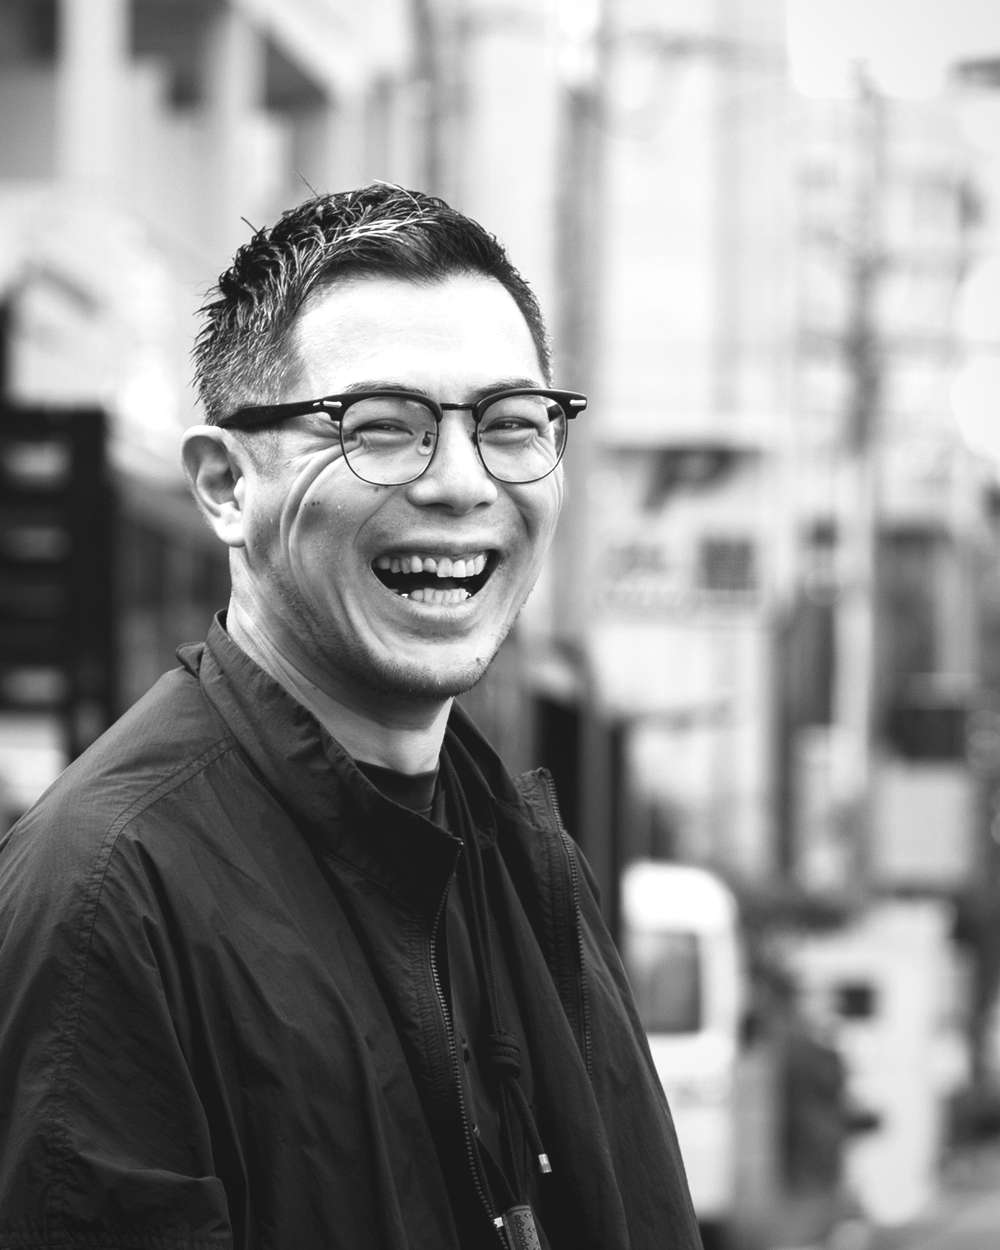
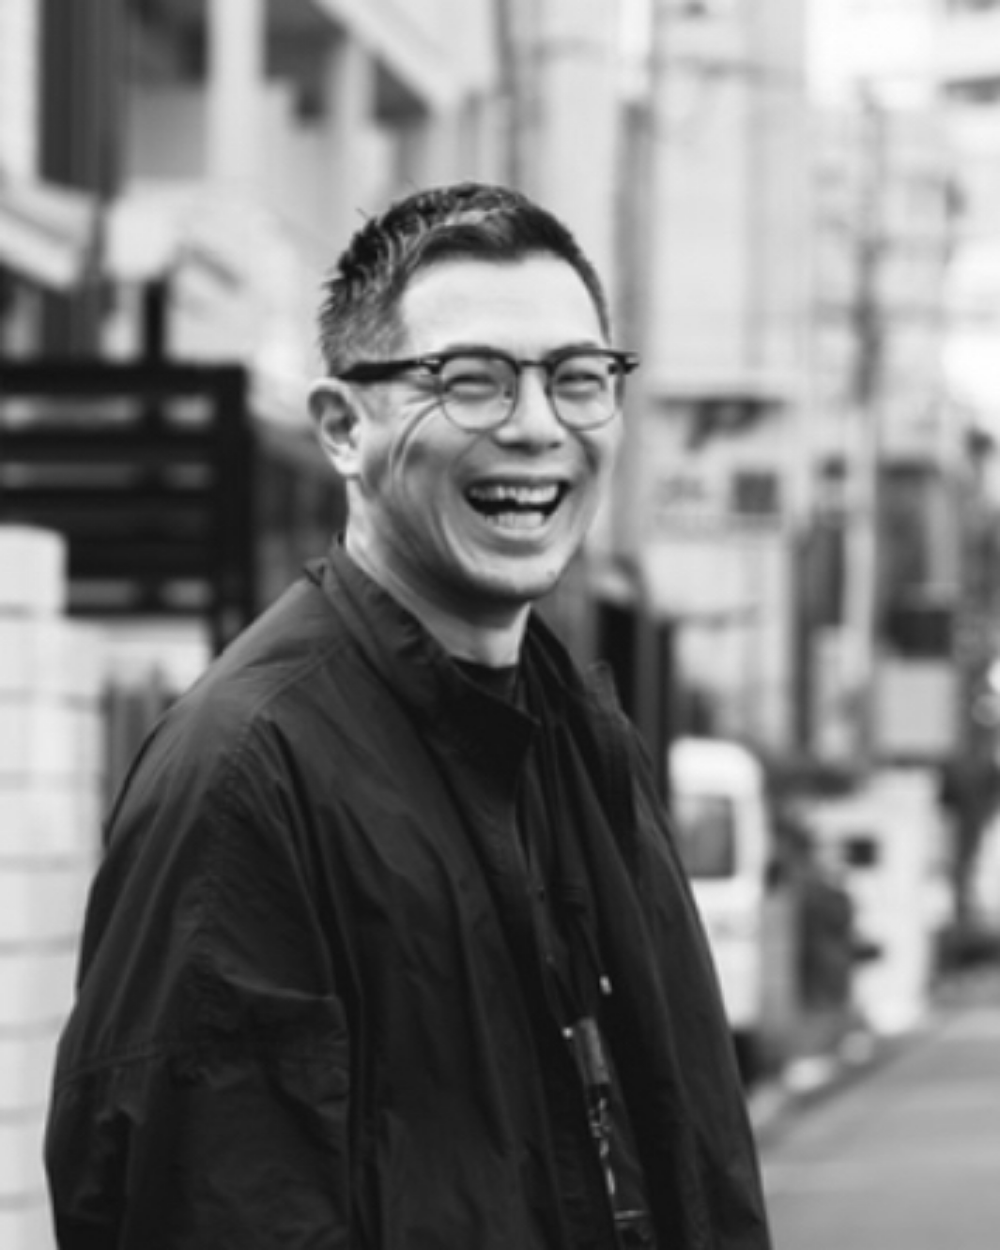
COMPANY：retro正式ロゴに差替＋両ポートレート刷新（引き・頭サイズ統一・左右対称）
- retro：仮グレーR → 正式ロゴ（矢印＋retroduction＋food produce & branding）に差替（公開前必須対応）
  - K100黒を地に馴染ませる mix-blend-mode:multiply／サイズはmssbworksと釣り合う高さ
- ポートレート：渡部（新規街中カットから）・中島（新規カットから）とも
  モノクロ4:5・頭サイズ統一・引きの上半身構図・左右対称（渡部=右に余白／中島=左に余白）
- mssbworksワードマークをやや縮小（1.55→1.45rem）

diff --git a/style.css b/style.css
@@ -328,8 +328,8 @@ body::before{
 .profile__logo{ margin:0 0 .55em; line-height:1; }                /* 社名の頭に小さくロゴ＝視覚リズム（誇示しない）。2社で同サイズ・同位置 */
 .profile__logo img{ display:block; height:1.1rem; width:auto; }  /* mssb＝Mマーク（小さめのアクセント＝ワードマークを主役にしてメリハリ） */
 .profile__logo--lockup{ display:flex; align-items:center; gap:.32em; }   /* mssb＝M＋mssbworks の横組みロックアップ */
-.profile__wm{ font-family:var(--font-jp); font-size:clamp(1.34rem, 1.05rem + 1.2vw, 1.55rem); line-height:1; letter-spacing:.01em; color:#243249; }  /* ワードマーク mssbworks＝主役。PCは1.55rem／狭い画面は少し縮めて収める（写真拡大で列が狭くなった分の収まり確保） */
-.profile__logo--r{ font-family:var(--font-jp); font-size:1.6rem; color:var(--ink-faint); }  /* retro＝薄グレー仮R（公開前に正式ロゴへ差替） */
+.profile__wm{ font-family:var(--font-jp); font-size:clamp(1.26rem, 1rem + 1.1vw, 1.45rem); line-height:1; letter-spacing:.01em; color:#243249; }  /* ワードマーク mssbworks＝主役（やや縮小）。PCは1.45rem／狭い画面は少し縮めて収める */
+.profile__logo--retro img{ display:block; height:clamp(1.75rem, 1.35rem + 1.55vw, 2.2rem); width:auto; mix-blend-mode:multiply; }  /* retro正式ロゴ＝K100黒を地(オフホワイト)に馴染ませる(multiply)。少し小さめ */
 .profile__main{ font-size:clamp(.86rem, .83rem + .15vw, .94rem); color:var(--ink); line-height:1.5; margin:0; }  /* 社名・代表氏名＝ネイビー。ロゴより一段小さく（ロゴ＞文章のメリハリ） */
 .profile__main + .profile__main{ margin-top:.12em; }
 .profile__sub{ font-family:var(--font-en); font-size:clamp(.75rem, .72rem + .12vw, .82rem); color:var(--ink-faint); line-height:1.5; margin:0; letter-spacing:.01em; }  /* 屋号ローマ字・英字肩書き＝薄グレー・社名より一段小さく */
@@ -349,7 +349,7 @@ body::before{
 /* --- スマホのみ：COMPANYの文章を詰めて、写真の高さ内に収める（特にretro/中島の下はみ出し対策） --- */
 @media (max-width: 560px){
   .profile__logo{ margin-bottom:.4em; }
-  .profile__logo--r{ font-size:1.34rem; }                         /* 仮R＝mssbロックアップと同程度に小さく＝行を詰める */
+  .profile__logo--retro img{ height:1.7rem; }                     /* retroロゴ＝モバイルは小さめ（写真の枠内に収める） */
   .profile__main{ font-size:.79rem; line-height:1.36; }
   .profile__main + .profile__main{ margin-top:.06em; }
   .profile__sub{ font-size:.71rem; line-height:1.34; }

diff --git a/index.html b/index.html
@@ -262,8 +262,8 @@
             <img src="img/mssbworks_about_nakajima_mono.png" alt="中島晋平" width="1000" height="1250" loading="lazy" decoding="async">
           </div>
           <div class="profile__text">
-            <!-- retroの正式ロゴ受領まで薄グレー仮R（Mと同サイズ・同位置）。公開前に正式ロゴへ差し替え必須 -->
-            <p class="profile__logo profile__logo--r" aria-hidden="true">R</p>
+            <!-- retro正式ロゴ（矢印＋retroduction＋food produce & branding）。K100黒／地に馴染ませるため multiply -->
+            <p class="profile__logo profile__logo--retro"><img src="img/retroduction_logo.png" alt="retroduction" width="1010" height="208"></p>
             <p class="profile__main">株式会社リトロダクション</p>
             <p class="profile__main">代表取締役　中島晋平</p>
             <p class="profile__sub">retroduction</p>